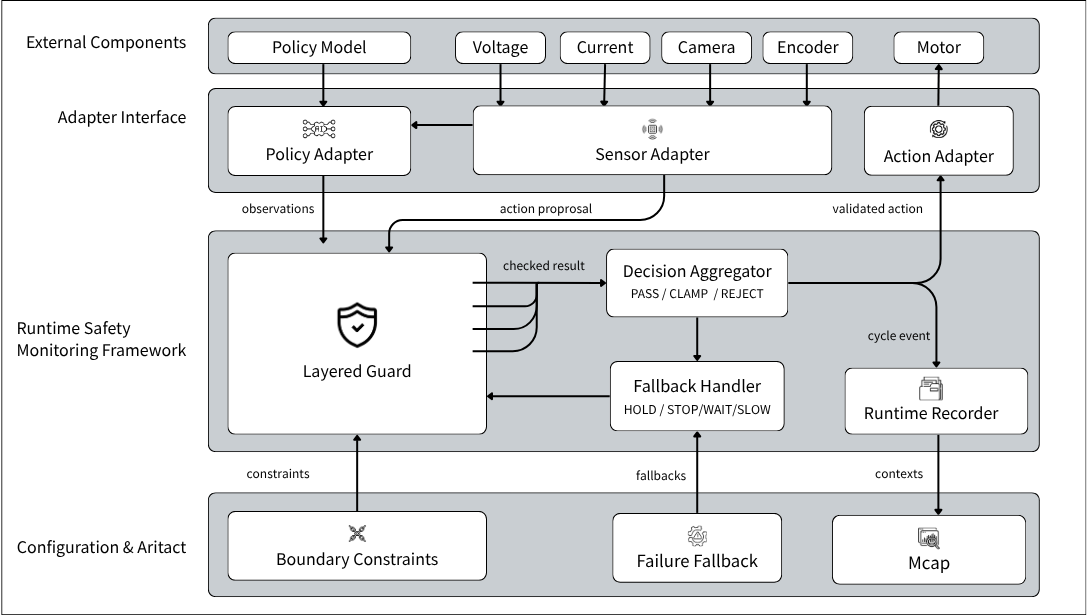
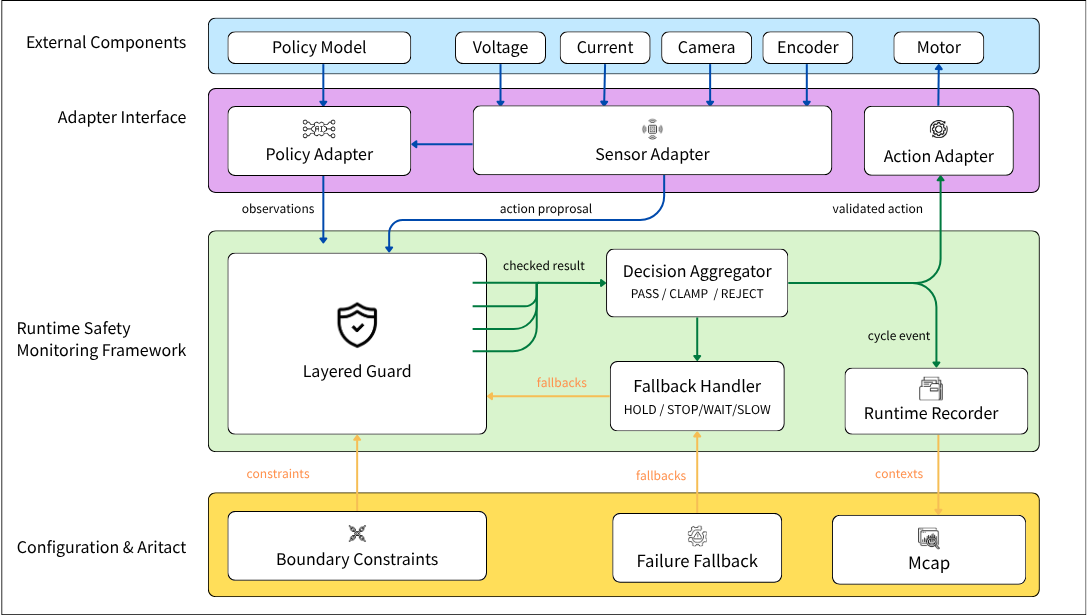
feat: clarify command cheat sheet flow

diff --git a/docs/getting-started/commands.md b/docs/getting-started/commands.md
@@ -2,6 +2,8 @@
 
 Use this page when you know what you want to do and just need the command.
 
+If you are unsure, use this order: validate the Stackfile, inspect what it resolves to, then run a bounded task.
+
 ## Setup And Run
 
 | Goal | Command |
